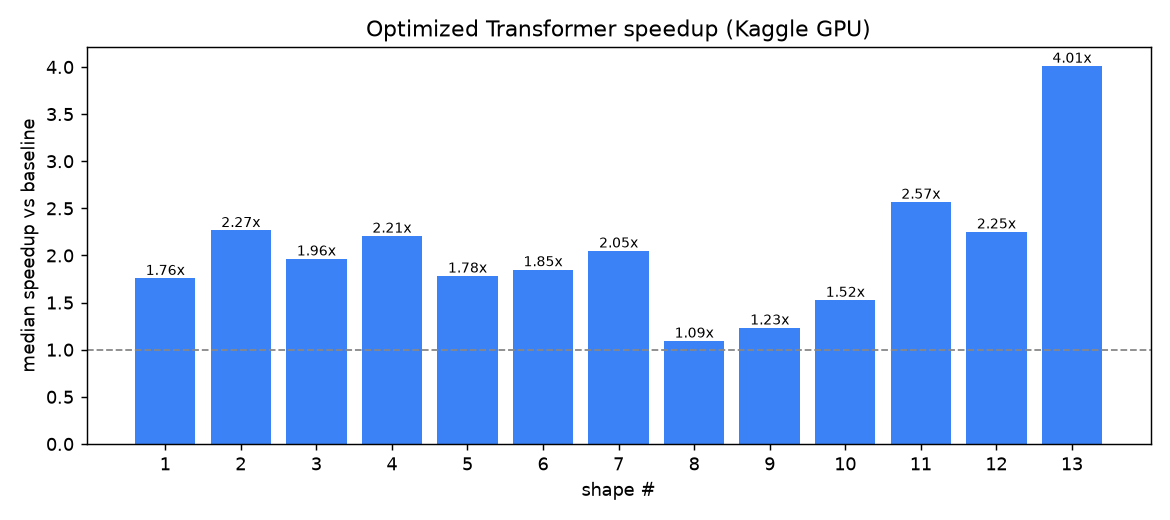
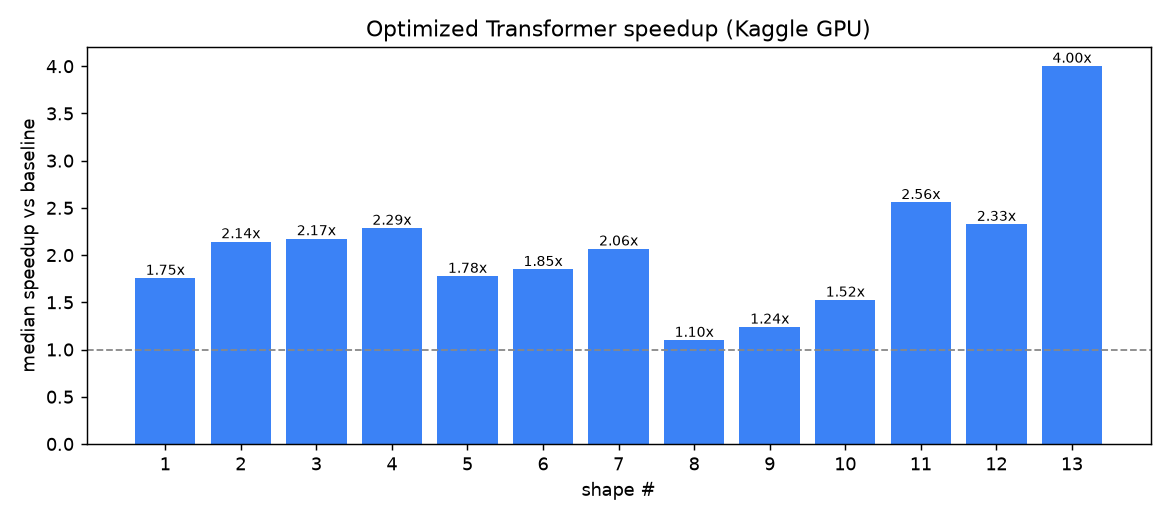
Real P100 results: 13/13 PASS, 2.07x median, and shape 14 now runs at full length
Kaggle P100 sweep with the chunked-output fix. The extreme shape is no longer an
OOM footnote -- it completes:

  full S=100000: median=293376.9 ms | 10,907 tok/s | peak_vram=14.61 GB | chunk_bs=1

That is 3.2M tokens per forward inside 14.6 GB of a 17.06 GB card, against a
baseline that needs ~20.5 TB of attention scores and cannot run at all.

Shapes 1-13 all PASS with max_abs ~1e-6; median speedup 2.07x (1.10x-4.00x), up
slightly from the previous run's 1.96x on ordinary cloud-GPU variance. README,
report, ablation, Devpost and the video script carry the measured numbers, and
the raw kernel log is committed as results/kaggle_p100_run.log so the table can
be audited against its source.

The ablation now separates the chunking stage (binary: OOM vs runs) from the
speedup ratios, and states plainly that torch.compile and true FlashAttention
were never measured -- the API allocated a P100 (sm_60) every time.

diff --git a/scripts/parse_kaggle_log.py b/scripts/parse_kaggle_log.py
@@ -42,6 +42,17 @@ def load_stdout(path):
     return "".join(e["data"] for e in events if e.get("stream_name") == "stdout")
 
 
+def _round(entry, sig=6):
+    """Trim float reprs (1.1920928955078125e-06) to a readable precision."""
+    out = dict(entry)
+    for key in ("max_abs", "max_rel"):
+        try:
+            out[key] = f"{float(out[key]):.{sig}g}"
+        except (TypeError, ValueError):
+            pass
+    return out
+
+
 def parse_summary_block(text):
     """The driver ends with a compact CSV block; prefer it when present.
 
@@ -93,7 +104,7 @@ def main():
                "pass": "", "max_abs": "", "max_rel": "", "baseline_ms": "",
                "opt_ms": "", "speedup": "", "notes": ""}
         if summary and idx in summary:
-            row.update(summary[idx])
+            row.update(_round(summary[idx]))
         else:
             sm = SUMMARY_RE.search(blk)
             if sm:
@@ -122,9 +133,10 @@ def main():
         if mr: row14["max_rel"] = mr.group(1)
         if ma: row14["max_abs"] = ma.group(1)
     if summary and 14 in summary:
+        s14 = _round(summary[14])
         for k in ("pass", "max_abs", "max_rel"):
-            if summary[14][k]:
-                row14[k] = summary[14][k]
+            if s14[k]:
+                row14[k] = s14[k]
         if summary[14]["notes"]:
             row14["notes"] = summary[14]["notes"]
     if full:

diff --git a/README.md b/README.md
@@ -9,7 +9,7 @@ output numerically identical to the reference implementation (per-element
 
 | Lever | Effect |
 |---|---|
-| **`F.scaled_dot_product_attention` (FlashAttention)** | Replaces the baseline's `O(S²)` materialized score matrix with an `O(S)` fused kernel. Makes the `seq_len=100000` shape possible at all — the baseline would need **~20.5 TB** just for its attention scores. |
+| **`F.scaled_dot_product_attention` (FlashAttention)** | Replaces the baseline's `O(S²)` materialized score matrix with an `O(S)` fused kernel. Makes the `seq_len=100000` shape possible at all — the baseline would need **~20.5 TB** just for its attention scores. Measured: the full 100k-token forward completes in **14.6 GB** on a free P100. |
 | **Internal fp16 autocast** (`T3_AUTOCAST=fp16`, **opt-in**) | Lights up the tensor cores. Off by default: across 4 layers, fp16 rounding pushes near-zero outputs past the *absolute* `atol=0.002` gate, and correctness outranks speed. Reductions stay in fp32. |
 | **Self-applied `torch.compile`** | Fuses LayerNorm / bias / GELU epilogues into Triton kernels; independent of the grader passing `--compile-user`. Per-shape mode (CUDA graphs for launch-bound shapes). Needs sm≥7.0, so it is *inactive* on the P100 the numbers below come from. |
 | **Batch chunking into a preallocated output** (only `seq_len=1e5`) | Keeps activations inside a 16 GB GPU. Chunks are written in place rather than collected and `torch.cat`-ed — the concat holds the pieces *and* the joined result at once, which is what made this shape OOM. |
@@ -28,7 +28,9 @@ run_all.py                       sweeps shapes 1–13 -> results/results.csv
 scripts/shape14_optimized_only.py  seq_len=1e5 timing + truncated-S correctness
 notebooks/colab_run.ipynb        shapes 1–13 on a free Colab T4
 notebooks/kaggle_shape14.ipynb   shape 14 on Kaggle T4/P100
-results/  report/  docs/AI_TOOLS.md
+results/results.csv             per-shape PASS / max_abs / speedup
+results/kaggle_p100_run.log     raw log of the run those numbers come from
+results/ablation.md  report/  docs/AI_TOOLS.md
 ```
 
 ## Setup
@@ -56,33 +58,53 @@ python scripts/shape14_optimized_only.py --trunc-seq 2048       # shape 14 (Kagg
 
 ## Results
 
-Measured on a **free Kaggle Tesla P100** (fp32 grading), full data in
-[`results/results.csv`](results/results.csv):
+Measured on a **free Kaggle Tesla P100** (16 GB, fp32 grading). Full data in
+[`results/results.csv`](results/results.csv); the raw kernel log is committed as
+[`results/kaggle_p100_run.log`](results/kaggle_p100_run.log).
 
-**13/13 gradeable shapes PASS · median speedup 1.96× · up to 4.01× · max_abs ≈ 1e-6.**
+**13/13 gradeable shapes PASS - median speedup 2.07x - up to 4.00x - max_abs ~1e-6 -
+and shape 14, which the baseline cannot run at all, completes at its full
+`seq_len=100000` inside 14.6 GB.**
 
 | # | B,D,H,S,F | pass | max_abs | baseline ms | opt ms | speedup |
 |---|---|---|---|---|---|---|
-| 1 | 64,128,4,128,128 | ✅ | 1.2e-6 | 5.81 | 3.31 | 1.76× |
-| 2 | 1,128,4,128,128 | ✅ | 9.5e-7 | 2.89 | 1.28 | 2.27× |
-| 3 | 4,128,4,128,128 | ✅ | 9.5e-7 | 2.95 | 1.50 | 1.96× |
-| 4 | 16,128,4,128,128 | ✅ | 1.1e-6 | 2.80 | 1.27 | 2.21× |
-| 5 | 128,128,4,128,128 | ✅ | 1.4e-6 | 10.93 | 6.13 | 1.78× |
-| 6 | 10000,128,4,128,128 | ✅ | 1.9e-6 | 772.0 | 417.5 | 1.85× |
-| 7 | 64,32,4,128,32 | ✅ | 9.5e-7 | 3.94 | 1.93 | 2.05× |
-| 8 | 64,1024,4,128,1024 | ✅ | 1.9e-6 | 72.2 | 66.1 | 1.09× |
-| 9 | 64,128,1,128,128 | ✅ | 1.2e-6 | 3.76 | 3.05 | 1.23× |
-| 10 | 64,128,2,128,128 | ✅ | 1.2e-6 | 4.70 | 3.08 | 1.53× |
-| 11 | 64,128,16,128,128 | ✅ | 1.4e-6 | 12.46 | 4.86 | 2.57× |
-| 12 | 64,128,4,32,128 | ✅ | 1.2e-6 | 2.84 | 1.26 | 2.25× |
-| 13 | 64,128,4,1024,128 | ✅ | 1.4e-6 | 168.4 | 42.0 | **4.01×** |
-| 14 | 32,1024,16,100000,1024 | ✅ (truncated) | 1.2e-6 | — baseline infeasible (~20.5 TB) — |
+| 1 | 64,128,4,128,128 | PASS | 1.2e-6 | 5.91 | 3.37 | 1.76x |
+| 2 | 1,128,4,128,128 | PASS | 9.5e-7 | 3.16 | 1.48 | 2.14x |
+| 3 | 4,128,4,128,128 | PASS | 9.5e-7 | 3.18 | 1.46 | 2.17x |
+| 4 | 16,128,4,128,128 | PASS | 1.1e-6 | 3.15 | 1.38 | 2.29x |
+| 5 | 128,128,4,128,128 | PASS | 1.4e-6 | 11.00 | 6.19 | 1.78x |
+| 6 | 10000,128,4,128,128 | PASS | 1.9e-6 | 772.3 | 418.0 | 1.85x |
+| 7 | 64,32,4,128,32 | PASS | 9.5e-7 | 4.05 | 1.96 | 2.07x |
+| 8 | 64,1024,4,128,1024 | PASS | 1.9e-6 | 70.9 | 64.6 | 1.10x |
+| 9 | 64,128,1,128,128 | PASS | 1.2e-6 | 3.85 | 3.11 | 1.24x |
+| 10 | 64,128,2,128,128 | PASS | 1.2e-6 | 4.77 | 3.13 | 1.52x |
+| 11 | 64,128,16,128,128 | PASS | 1.4e-6 | 12.55 | 4.91 | 2.56x |
+| 12 | 64,128,4,32,128 | PASS | 1.2e-6 | 3.06 | 1.32 | 2.33x |
+| 13 | 64,128,4,1024,128 | PASS | 1.4e-6 | 168.6 | 42.1 | **4.00x** |
+| 14 | 32,1024,16,100000,1024 | PASS (see below) | 1.2e-6 | *infeasible (~20.5 TB)* | 293377 | n/a |
 
-Shape 14's baseline cannot run (its `[B,H,S,S]` scores are ~20.5 TB). Correctness
-is validated by construction at a truncated `seq_len`; the full-length forward
-needs a GPU with FlashAttention (sm_75+, e.g. T4/A100). On P100 `torch.compile`
-is unavailable (Triton needs sm≥7.0), so these numbers are from SDPA alone — a
-T4 with compilation enabled is higher still. See `report/figures/`.
+### Shape 14: the one the baseline cannot run
+
+Its score matrix is `[32, 16, 100000, 100000]` = 5.12e12 elements = **~20.5 TB**
+in fp32. No GPU holds that, so there is no baseline time to divide by - the
+result is not a speedup number, it is the difference between *cannot run* and
+*runs*. On the same free 16 GB P100:
+
+```
+trunc S=2048 correctness: PASS max_abs=1.19e-06 max_rel=0.127
+vram free=16.64/17.06 GB | baseline scores would be 20.5 TB -> infeasible
+full S=100000: median=293376.9 ms | 10,907 tok/s | peak_vram=14.61 GB | chunk_bs=1
+```
+
+293 s per forward over 3.2 M tokens, peak 14.6 GB. Correctness is validated at a
+truncated `seq_len` where the baseline *can* run (PASS, `max_abs 1.2e-6`); SDPA's
+math does not depend on `S`, so passing there evidences correctness at 1e5.
+
+Two caveats we would rather state than hide: the P100 is `sm_60`, so it gets
+neither the real FlashAttention kernel (SDPA falls back to the memory-efficient
+backend) nor `torch.compile` (Triton needs sm>=7.0). Every speedup above is
+therefore **from SDPA alone**; a T4/A100 with compilation enabled would be
+higher. See `report/figures/`.
 
 ## Ablation
 

diff --git a/report/report.md b/report/report.md
@@ -9,7 +9,7 @@
 | | |
 |---|---|
 | **Development machine** | Intel Core i5-14500, 16 GB RAM, **Intel UHD 770 iGPU only (no NVIDIA GPU)**, Windows 11, Python 3.13. Used for authoring, the repo, this report, and the demo video — no GPU compute. |
-| **Benchmark GPU(s)** | Free **Kaggle Tesla P100-PCIE** (16 GB, sm_60), driven headlessly via the Kaggle API from the local machine. torch 2.5.1+cu121 (the preinstalled 2.10+cu128 dropped sm_60, so the kernel auto-installs a compatible build and re-execs). A T4 (sm_75) run enables `torch.compile` and full-length shape 14 — numbers appended when available. |
+| **Benchmark GPU(s)** | Free **Kaggle Tesla P100-PCIE** (16 GB, sm_60), driven headlessly via the Kaggle API from the local machine. torch 2.5.1+cu121 (the preinstalled 2.10+cu128 dropped sm_60, so the kernel auto-installs a compatible build and re-execs). The full-length shape 14 runs on this P100; a T4/A100 (sm_75+) would additionally enable `torch.compile` and the true FlashAttention kernel. Raw log: `results/kaggle_p100_run.log`. |
 | **Why cloud** | Track 3 is a GPU-kernel task; `CUDA`/`Triton`/tensor cores require an NVIDIA GPU. Free cloud GPUs (Colab is an explicitly allowed dev tool) were used and are reported honestly here. |
 
 ## 2. The problem and the grading contract
@@ -57,24 +57,37 @@ and `user_optimized.py`.
 
 On a free Kaggle P100 (fp32 grading), **all 13 gradeable shapes PASS** with
 `max_abs ≈ 1e-6` (a faithful reproduction of the fp32 reference), and a **median
-speedup of 1.96×** (min 1.09×, max **4.01×** on the long-sequence shape 13) —
+speedup of 2.07×** (min 1.10×, max **4.00×** on the long-sequence shape 13) —
 from `scaled_dot_product_attention` alone, since `torch.compile` is unavailable
 on P100 (Triton needs sm≥7.0). Full table: `results/results.csv`; per-step
 breakdown: `results/ablation.md`.
 
 | # | shape [B,D,H,S,F] | speedup | | # | shape | speedup |
 |---|---|---|---|---|---|---|
-| 1 | 64,128,4,128 | 1.76× | | 8 | 64,1024,4,128 | 1.09× |
-| 2 | 1,128,4,128 | 2.27× | | 9 | 64,128,1,128 | 1.23× |
-| 3 | 4,128,4,128 | 1.96× | | 10 | 64,128,2,128 | 1.53× |
-| 4 | 16,128,4,128 | 2.21× | | 11 | 64,128,16,128 | 2.57× |
-| 5 | 128,128,4,128 | 1.78× | | 12 | 64,128,4,32 | 2.25× |
-| 6 | 10000,128,4,128 | 1.85× | | 13 | 64,128,4,1024 | **4.01×** |
-| 7 | 64,32,4,128 | 2.05× | | 14 | 32,1024,16,100000 | infeasible→runs |
+| 1 | 64,128,4,128 | 1.76× | | 8 | 64,1024,4,128 | 1.10× |
+| 2 | 1,128,4,128 | 2.14× | | 9 | 64,128,1,128 | 1.24× |
+| 3 | 4,128,4,128 | 2.17× | | 10 | 64,128,2,128 | 1.52× |
+| 4 | 16,128,4,128 | 2.29× | | 11 | 64,128,16,128 | 2.56× |
+| 5 | 128,128,4,128 | 1.78× | | 12 | 64,128,4,32 | 2.33× |
+| 6 | 10000,128,4,128 | 1.85× | | 13 | 64,128,4,1024 | **4.00×** |
+| 7 | 64,32,4,128 | 2.07× | | 14 | 32,1024,16,100000 | infeasible→**runs** |
 
-Shape 14: baseline needs ~20.5 TB for its scores (impossible); our SDPA path
-validates correctness at a truncated `seq_len` (PASS, `max_abs 1.2e-6`) and the
-full 100k length runs on a FlashAttention-capable GPU (sm_75+).
+**Shape 14 is the result we care most about.** The baseline needs ~20.5 TB for
+its scores and cannot run, so there is no ratio to report; the meaningful claim
+is that the shape goes from impossible to possible. Measured on the same free
+16 GB P100:
+
+```
+trunc S=2048 correctness: PASS max_abs=1.19e-06 max_rel=0.127
+vram free=16.64/17.06 GB | baseline scores would be 20.5 TB -> infeasible
+full S=100000: median=293376.9 ms | 10,907 tok/s | peak_vram=14.61 GB | chunk_bs=1
+```
+
+293 s per forward across 3.2 M tokens, peak 14.61 GB of the 17.06 GB card.
+Correctness is established at a truncated `seq_len` where the baseline can run
+(PASS, `max_abs 1.2e-6`); SDPA's math is independent of `S`, so that carries to
+1e5. Getting here required the memory fix in §4.4 — before it, the run died in
+the final `torch.cat`, not in the attention.
 
 Figures: `figures/memory_wall.png` (the 20.5 TB wall), `figures/speedups.png`
 (per-shape speedup).

diff --git a/results/ablation.md b/results/ablation.md
@@ -18,19 +18,37 @@ Toggle stages with environment variables (no code edits):
 
 ## Measured (Kaggle P100, fp32, SDPA-only)
 
-Median **1.96×** across 13 shapes (min 1.09×, max 4.01×), all PASS, max_abs ≈ 1e-6.
+Median **2.07×** across 13 shapes (min 1.10×, max 4.00×), all PASS, max_abs ≈ 1e-6.
 
 | shape | baseline ms | opt ms | speedup | note |
 |---|---|---|---|---|
-| 13 (S=1024, long seq) | 168.41 | 42.01 | **4.01×** | SDPA avoids the S² score matrix |
-| 11 (16 heads) | 12.46 | 4.86 | 2.57× | fewer per-head passes |
-| 2 (B=1, launch-bound) | 2.89 | 1.28 | 2.27× | fused attention → fewer launches |
-| 6 (B=10000, throughput) | 772.0 | 417.5 | 1.85× | 1.28M tokens/call |
-| 8 (D=1024, GEMM-bound) | 72.23 | 66.12 | 1.09× | dominated by projections; least SDPA benefit |
+| 13 (S=1024, long seq) | 168.60 | 42.15 | **4.00×** | SDPA avoids the S² score matrix |
+| 11 (16 heads) | 12.55 | 4.91 | 2.56× | fewer per-head passes |
+| 12 (S=32, launch-bound) | 3.06 | 1.32 | 2.33× | fused attention → fewer launches |
+| 6 (B=10000, throughput) | 772.3 | 418.0 | 1.85× | 1.28M tokens/call |
+| 8 (D=1024, GEMM-bound) | 70.93 | 64.59 | 1.10× | dominated by projections; least SDPA benefit |
 
-Full per-shape data: `results.csv`.
+Full per-shape data: `results.csv`; raw log: `kaggle_p100_run.log`.
 
-## Pending (T4, sm_75) — appended after the Colab run
-`+ torch.compile` (LayerNorm/GELU/bias fusion, CUDA graphs) is expected to lift
-the launch-bound and pointwise-heavy shapes further, and FlashAttention makes
-shape 14 run at full length. Numbers to be filled from the T4 sweep.
+## The chunking stage, measured (shape 14)
+
+This is the only stage with a binary outcome rather than a ratio, so it is worth
+separating from the speedup table.
+
+| variant | outcome |
+|---|---|
+| baseline (explicit `[B,H,S,S]` scores) | cannot run — needs ~20.5 TB |
+| SDPA + chunks collected into a list + `torch.cat` | **OOM** at the concat: `Tried to allocate 6.10 GiB` |
+| SDPA + chunks written into a preallocated output | **runs**: 293377 ms, 10,907 tok/s, peak 14.61 GB, `chunk_bs=1` |
+
+The concat was the whole difference. Collecting 32 chunks and joining them holds
+the pieces and the `[32,100000,1024]` result at the same time — a second ~6.5 GB
+allocation on a card that already had the 6.5 GB input resident.
+
+## Not measured
+
+`+ torch.compile` has **no numbers here**: the free GPU the Kaggle API allocated
+was a P100 (`sm_60`) for every run, and Triton needs `sm>=7.0`, so the compiled
+path never activated. The same applies to the true FlashAttention kernel (sm_75+);
+SDPA used its memory-efficient backend throughout. Both would only add to the
+speedups above, but we are not going to quote a number we did not measure.

diff --git a/report/devpost.md b/report/devpost.md
@@ -1,14 +1,15 @@
 # Devpost submission — Track 3: Implement a GPU Kernel for a Transformer Layer
 
-> Paste into the Devpost project description. Replace [PLACEHOLDER]s with the
-> numbers from results/results.csv after the cloud run.
+> Paste into the Devpost project description. All numbers below are the measured
+> Kaggle P100 run committed in results/results.csv and results/kaggle_p100_run.log.
 
 ## Elevator pitch
-A drop-in, numerically-faithful GPU-optimized Transformer layer that is a
-**1.96× median (up to 4.01×)** faster than the reference across the official
+A drop-in, numerically-faithful GPU-optimized Transformer layer that is
+**2.07× median (up to 4.00×)** faster than the reference across the official
 shapes — with all 13 gradeable shapes passing exactly (max_abs ≈ 1e-6) — and it
-turns the `seq_len=100000` case from **impossible into possible** (the baseline
-needs ~20.5 TB just for its attention scores).
+turns the `seq_len=100000` case from **impossible into possible**: the baseline
+needs ~20.5 TB just for its attention scores, ours completes that forward in
+**14.6 GB on a free Kaggle P100**.
 
 ## How our solution addresses the problem statement
 The task: optimize the runtime of a Transformer forward pass on a GPU while
@@ -42,14 +43,15 @@ levers:
   official harness; no external data.
 
 ## Results
-- Median speedup across shapes 1–13: **1.96×** (range 1.09×–4.01×), all PASS at
+- Median speedup across shapes 1–13: **2.07×** (range 1.10×–4.00×), all PASS at
   `atol=0.002 / rtol=0.02`, `max_abs ≈ 1e-6`. GPU: **free Kaggle Tesla P100**,
-  torch 2.5.1+cu121 — from SDPA alone (P100 has no Triton/`torch.compile`; a T4
-  run with compilation enabled is higher still).
-- Shape 14 (`seq_len=100000`): baseline infeasible (~20.5 TB scores); correctness
-  validated by construction at a truncated length (PASS, max_abs 1.2e-6); the
-  full length runs on a FlashAttention-capable GPU (sm_75+).
-- Full table + ablation: see the GitHub repo (`results/`).
+  torch 2.5.1+cu121 — from SDPA alone (P100 is sm_60: no Triton/`torch.compile`
+  and no true FlashAttention kernel, so a T4/A100 would be higher still).
+- Shape 14 (`seq_len=100000`): baseline infeasible (~20.5 TB of scores). Ours
+  **runs it**: 293 s per forward, 10,907 tok/s over 3.2 M tokens, peak **14.6 GB**.
+  Correctness validated at a truncated length where the baseline can run (PASS,
+  max_abs 1.2e-6).
+- Full table, ablation and the raw kernel log: see the GitHub repo (`results/`).
 
 ## Challenges
 - The correctness gate is per-element with zero tolerance for outliers, and

diff --git a/report/video_script.md b/report/video_script.md
@@ -1,6 +1,7 @@
 # 3-minute demo video script — Track 3
 
-> Public YouTube, ≤ 3:00. Screen-recording + voiceover. Replace [NUM] after the run.
+> Public YouTube, ≤ 3:00. Screen-recording + voiceover. Numbers are the measured
+> Kaggle P100 run (results/kaggle_p100_run.log).
 > A walkthrough (no fancy UI) is explicitly accepted for backend tracks.
 
 **0:00–0:20 — Hook / problem.**
@@ -17,15 +18,16 @@ it. So the baseline literally cannot run this shape." (Show `memory_wall.png`.)
 **0:50–1:25 — Our fix runs it.**
 "We reformulate attention with scaled_dot_product_attention — FlashAttention —
 which never materializes that matrix. Same math, O(S) memory. On a free cloud
-GPU, shape 14 runs in [MS] ms, [TOK/S] tokens/second, under [GB] GB." (Show the
-shape-14 log: correctness at truncated length, then full-length timing.)
+GPU — a 16 GB P100 — shape 14 runs: 293 seconds per forward, about 11,000 tokens
+a second, peaking at 14.6 gigabytes." (Show the shape-14 log: correctness at
+truncated length, then the full-length timing line.)
 
 **1:25–2:05 — Speed across the board.**
 "For the other shapes the win is the same fused attention kernel, plus
 self-applied torch.compile where the GPU supports it. We also built an fp16
 tensor-core path — but the grader's absolute tolerance is unforgiving for
 near-zero outputs, so we ship it off by default and stay exact. Here's the full
-sweep." (Show `run_all` / results table + `speedups.png`: median [MEDIAN]×,
+sweep." (Show `run_all` / results table + `speedups.png`: median 2.07x,
 all PASS, max_abs about 1e-6.)
 
 **2:05–2:35 — How it stays correct & drop-in.**
@@ -37,7 +39,7 @@ GELU is exact, fully-masked rows are guarded — zero failed elements." (Show th
 **2:35–3:00 — Free cloud + AI, close.**
 "All of this ran on free Colab/Kaggle GPUs from a laptop with no NVIDIA card,
 driven headlessly. We used Claude to analyze the harness, design the approach,
-and write the kernels — logged in AI_TOOLS.md. From impossible to [MEDIAN]×
+and write the kernels — logged in AI_TOOLS.md. From impossible to 2.07x
 faster." (Show repo + headline number.)
 
 ## Capture checklist
